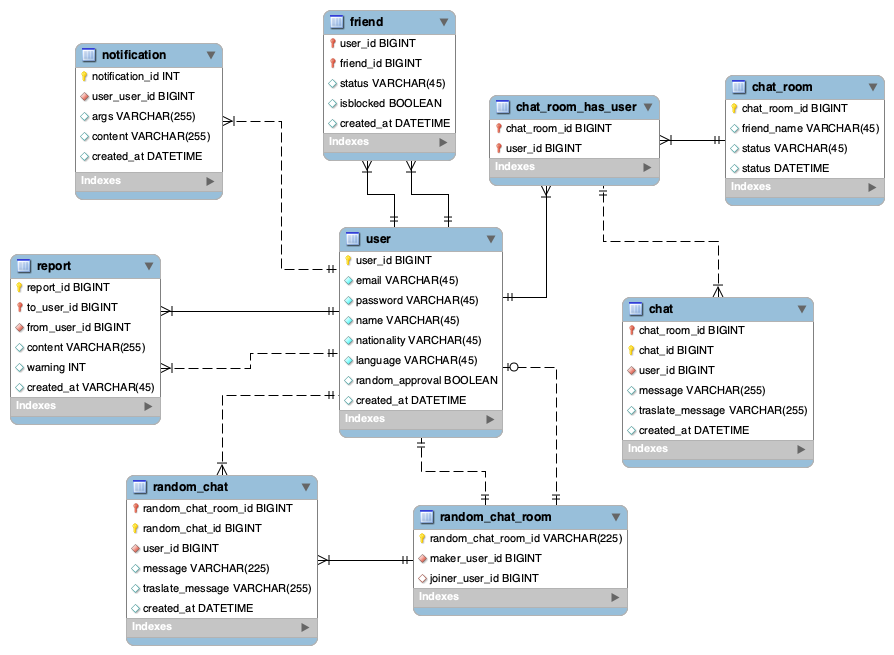
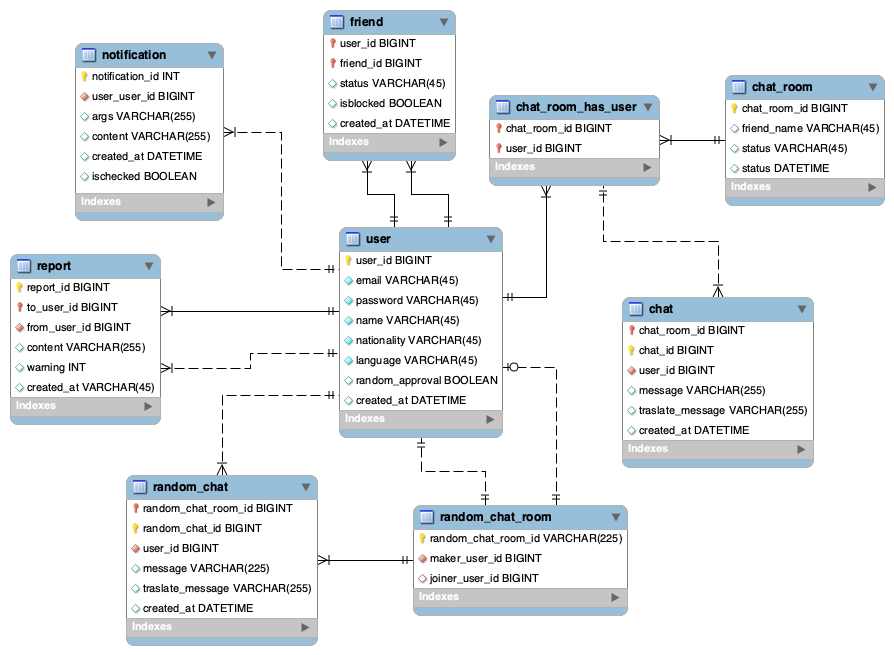
doc: README.md, ERD 수정

Changed region(s): [[0.0604, 0.2443, 0.2718, 0.3359], [0.2416, 0.1527, 0.2718, 0.2137]]

diff --git a/README.md b/README.md
@@ -81,10 +81,13 @@
           - 아용 정지 해제 후 경고 횟수는 0으로 초기화 됩니다.
 ---
 ### 🛎 알람
-- 알람 기능에는 아래의 내용들을 조회할 수 있습니다.
-  - 친구 요청
-  - 친구 요청에 대한 결과
+- 알람 기능에는 아래의 내용들을 조회할 수 있습니다.(페이징 처리) 
+  - 대화 요청, 결과
+  - 친구 요청, 결과
   - 랜덤 서비스 이용 정지 안내("회원님은 (이용정지 날짜)까지 랜덤 서비스를 이용하실 수 없습니다.")
+- 알람을 읽은 경우 읽음 처리합니다.
+  - 읽지 않은 알람의 목록을 조회할 수 있습니다.
+  - 읽은 알람의 목록을 조회할 수 있습니다.
 ---
 ## 🔍 ERD
 ![](docs/erd.png)
